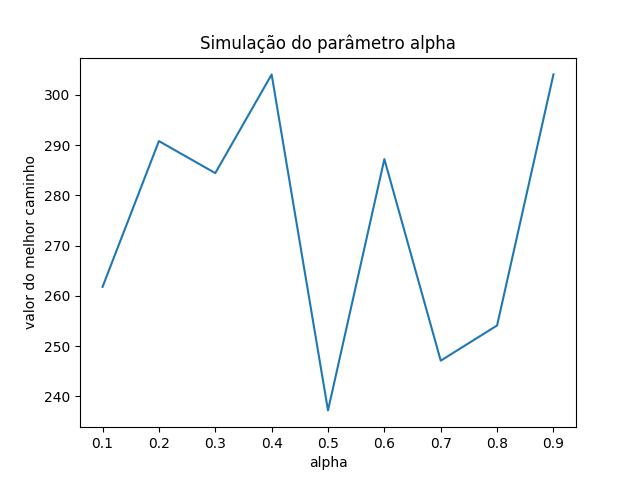
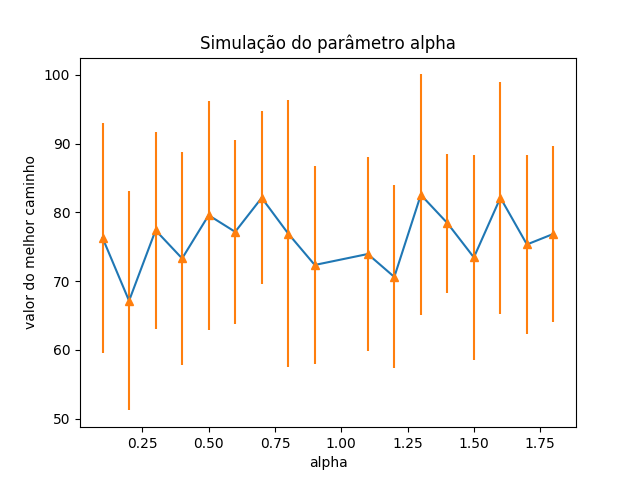
new graphics

diff --git a/automatizedtests.py b/automatizedtests.py
@@ -1,6 +1,7 @@
 from wtapassive import *
 import os
 import pickle
+import statistics
 
 from result import *
 
@@ -9,62 +10,107 @@ from result import *
 # 0.5 1.2 50 80 1000.0
 # alpha, beta, ant_count, iterations, pheromone_evaporation_coefficient, pheromone_constant
 variacoes = [
-    [.1,.2,.3,.4,.5,.6,.7,.8,.9],
-    [1.0,1.2,1.4,1.6,1.8,2.0,2.2,2.4,2.6],
-    [10,20,30,40,50,60,70,80,90],
-    [10,20,30,40,50,60,70,80,90],
-    [.1,.2,.3,.4,.5,.6,.7,.8,.9],
-    [200.0,400.0,600.0,800.0,1000.0,1200.0,1400.0,1600.0,1800.0]
+    [.1,.2,.3,.4,.5,.6,.7,.8,.9,1.1,1.2,1.3,1.4,1.5,1.6,1.7,1.8],
+    [1.0,1.2,1.4,1.6,1.8,2.0,2.2,2.4,2.6,2.8,3.0,3.2,3.4,3.6,3.8,4.0,4.2,4.4],
+    [10,20,30,40,50,60,70,80,90,100,110,120,130,140,150,160,170,180],
+    [10,20,30,40,50,60,70,80,90,100,110,120,130,140,150,160,170,180],
+    [.1,.15,.2,.25,.3,.35,.4,.45,.5,.55,.6,.65,.7,.75,.8,.85,.9,.95],
+    [200.0,400.0,600.0,800.0,1000.0,1200.0,1400.0,1600.0,1800.0,2000.0,2200.0,2400.0,2600.0,2800.0,3000.0,3200.0,3400.0,3600.0]
 ]
 file = open('results2','wb')
 file.truncate(0)
-
+med_len = 15
 resultlist = []
 for filename in os.listdir('./wta_instances'):
-    if filename == 'wta20.txt':
+    if filename == 'awta5.txt':
         print('\ncomeçando processamento de ',filename,'.......')
+
         print(':::alpha')
         for i in range(len(variacoes[0])):
-            result = onetest('./wta_instances/'+filename,alpha= variacoes[0][i])
-            result.filename = filename
-            result.testname = 'alpha'
-            resultlist.append(result)
+            med_lista = []
+            for j in range(med_len):
+                result = onetest('./wta_instances/'+filename,alpha= variacoes[0][i])
+                result.filename = filename
+                result.testname = 'alpha'
+                med_lista.append(result)
+                print('alpha:',result.valordocaminho)
             print(':::fim de instância!')
+            result = med_lista[0]
+            result.valordocaminho = sum(x.valordocaminho for x in med_lista)/med_len
+            result.standarddeviation = statistics.stdev(x.valordocaminho for x in med_lista)
+            print('valor do alpha:',result.alpha)
+            resultlist.append(result)
+            print('média do alpha:',result.valordocaminho)
+
         print(':::beta')
         for i in range(len(variacoes[1])):
-            result = onetest('./wta_instances/'+filename,beta= variacoes[1][i])
-            result.filename = filename
-            result.testname = 'beta'
-            resultlist.append(result)
+            med_lista = []
+            for j in range(med_len):
+                result = onetest('./wta_instances/'+filename,beta= variacoes[1][i])
+                result.filename = filename
+                result.testname = 'beta'
+                med_lista.append(result)
             print(':::fim de instância!')
+            result = med_lista[0]
+            result.valordocaminho = sum(x.valordocaminho for x in med_lista)/med_len
+            result.standarddeviation = statistics.stdev(x.valordocaminho for x in med_lista)
+            resultlist.append(result)
+
         print(':::ant_count')
         for i in range(len(variacoes[2])):
-            result = onetest('./wta_instances/'+filename,ant_count= variacoes[2][i])
-            result.filename = filename
-            result.testname = 'ant_count'
-            resultlist.append(result)
+            med_lista = []
+            for j in range(med_len):
+                result = onetest('./wta_instances/'+filename,ant_count= variacoes[2][i])
+                result.filename = filename
+                result.testname = 'ant_count'
+                med_lista.append(result)
             print(':::fim de instância!')
+            result = med_lista[0]
+            result.valordocaminho = sum(x.valordocaminho for x in med_lista)/med_len
+            result.standarddeviation = statistics.stdev(x.valordocaminho for x in med_lista)
+            resultlist.append(result)
+
         print(':::iterations')
         for i in range(len(variacoes[3])):
-            result = onetest('./wta_instances/'+filename,iterations= variacoes[3][i])
-            result.filename = filename
-            result.testname = 'iterations'
-            resultlist.append(result)
+            med_lista = []
+            for j in range(med_len):
+                result = onetest('./wta_instances/'+filename,iterations= variacoes[3][i])
+                result.filename = filename
+                result.testname = 'iterations'
+                med_lista.append(result)
             print(':::fim de instância!')
+            result = med_lista[0]
+            result.valordocaminho = sum(x.valordocaminho for x in med_lista)/med_len
+            result.standarddeviation = statistics.stdev(x.valordocaminho for x in med_lista)
+            resultlist.append(result)
+
         print(':::pheromone_evaporation_coefficient')
         for i in range(len(variacoes[4])):
-            result = onetest('./wta_instances/'+filename,pheromone_evaporation_coefficient= variacoes[4][i])
-            result.filename = filename
-            result.testname = 'pheromone_evaporation_coefficient'
-            resultlist.append(result)
+            med_lista = []
+            for j in range(med_len):
+                result = onetest('./wta_instances/'+filename,pheromone_evaporation_coefficient= variacoes[4][i])
+                result.filename = filename
+                result.testname = 'pheromone_evaporation_coefficient'
+                med_lista.append(result)
             print(':::fim de instância!')
+            result = med_lista[0]
+            result.valordocaminho = sum(x.valordocaminho for x in med_lista)/med_len
+            result.standarddeviation = statistics.stdev(x.valordocaminho for x in med_lista)
+            resultlist.append(result)
+
         print(':::pheromone_constant')
         for i in range(len(variacoes[5])):
-            result = onetest('./wta_instances/'+filename,pheromone_constant= variacoes[5][i])
-            result.filename = filename
-            result.testname = 'pheromone_constant'
-            resultlist.append(result)
+            med_lista = []
+            for j in range(med_len):
+                result = onetest('./wta_instances/'+filename,pheromone_constant= variacoes[5][i])
+                result.filename = filename
+                result.testname = 'pheromone_constant'
+                med_lista.append(result)
             print(':::fim de instância!')
+            result = med_lista[0]
+            result.valordocaminho = sum(x.valordocaminho for x in med_lista)/med_len
+            result.standarddeviation = statistics.stdev(x.valordocaminho for x in med_lista)
+            resultlist.append(result)
 
 print('\ncomeçando a salvar os resultados.......')
 pickle.dump(resultlist,file)

diff --git a/creategraphics.py b/creategraphics.py
@@ -6,7 +6,8 @@ import matplotlib.pyplot as plt
 
 file = open('results2','rb')
 result_list = pickle.load(file)
-print('\nThis is the list of results:\nNumber of parameters',len(result_list)/9,'\nNumber of Instances:',len(result_list),'\n')
+print('\nThis is the list of results:\nNumber of parameters',len(result_list)/18,'\nNumber of Instances:',len(result_list),'\n')
+
 result_list.sort(key = lambda x: x.testname)
 i=0
 
@@ -15,11 +16,15 @@ while i < len(result_list):
     plot_atual = plt.subplot()
     eixox = []
     eixoy = []
+    errordata = []
     while i < len(result_list) and result_list[i].testname== testname_atual:
         eixox.append(getattr(result_list[i],testname_atual))
         eixoy.append(getattr(result_list[i],'valordocaminho'))
+        errordata.append(getattr(result_list[i],'standarddeviation'))
+        print(getattr(result_list[i],'standarddeviation'))
         i+=1
     plot_atual.plot(eixox,eixoy)
+    plot_atual.errorbar(eixox,eixoy,errordata,linestyle='None', marker='^')
     plot_atual.set(xlabel= testname_atual,ylabel = 'valor do melhor caminho', title ='Simulação do parâmetro '+testname_atual)
     plt.savefig(testname_atual+'.png')
     plt.clf()

diff --git a/finaltests.py b/finaltests.py
@@ -1,7 +1,7 @@
 from wtapassive import *
 import os
 import pickle
-
+#usado para criar a tabela de comparacao com o artigo
 from result import *
 
 file = open('results_finais','wb')

diff --git a/result.py b/result.py
@@ -10,3 +10,4 @@ class Result:
         self.pheromone_constant = pheromone_constant
         self.filename = ''
         self.testname = ''
+        self.standarddeviation = 0.0
